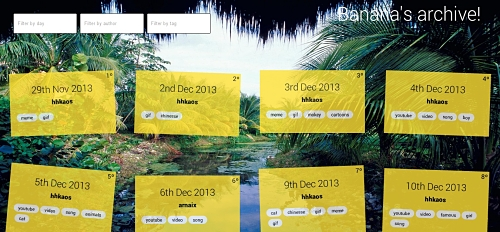
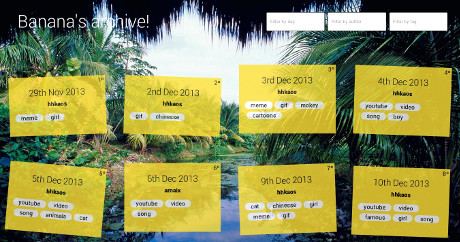
changed all previews of work-section

diff --git a/app/styles/sass/_variables.sass b/app/styles/sass/_variables.sass
@@ -14,10 +14,10 @@ $color-intro-text: #f0c700
 
 $color-section-presentation: #e74c3c
 $color-section-work: #9ADBD7
-$color-section-tech_skills: #82648a
+$color-section-tech_skills: #7658f8
 $color-section-career: #FCCC34
-$color-section-hobbies: #00BA56
-$color-section-contacts: #0b0b0b
+$color-section-hobbies: #5bd999
+$color-section-contacts: #cb70d7
 
 $color-first-section: $color-section-presentation
 

diff --git a/app/styles/sass/_page.sass b/app/styles/sass/_page.sass
@@ -341,7 +341,7 @@ body
 .wh-generic-section-content
   text-align: left
   width: 100%
-  max-width: 500px
+  max-width: 460px
   margin: 0 auto
 
 
@@ -414,7 +414,8 @@ body
       top: 0
       bottom: 0
       width: 100%
-      +background-size(cover)
+      background-position: top center
+      background-repeat: no-repeat
 
       .desc
         position: absolute

diff --git a/app/styles/sass/_992.sass b/app/styles/sass/_992.sass
@@ -144,6 +144,6 @@
   //TRABAJOS
   &.work
     .wh-part-item
-      width: 48%
-      margin: 0 1% 2% 1%
+      width: 47%
+      margin: 0 1.5% 2% 1.5%
 

diff --git a/app/styles/sass/_768.sass b/app/styles/sass/_768.sass
@@ -85,4 +85,5 @@
     +transition-timing-function(ease-out)
   &:hover
     opacity: 1
+    color: $color-section-contacts
 
